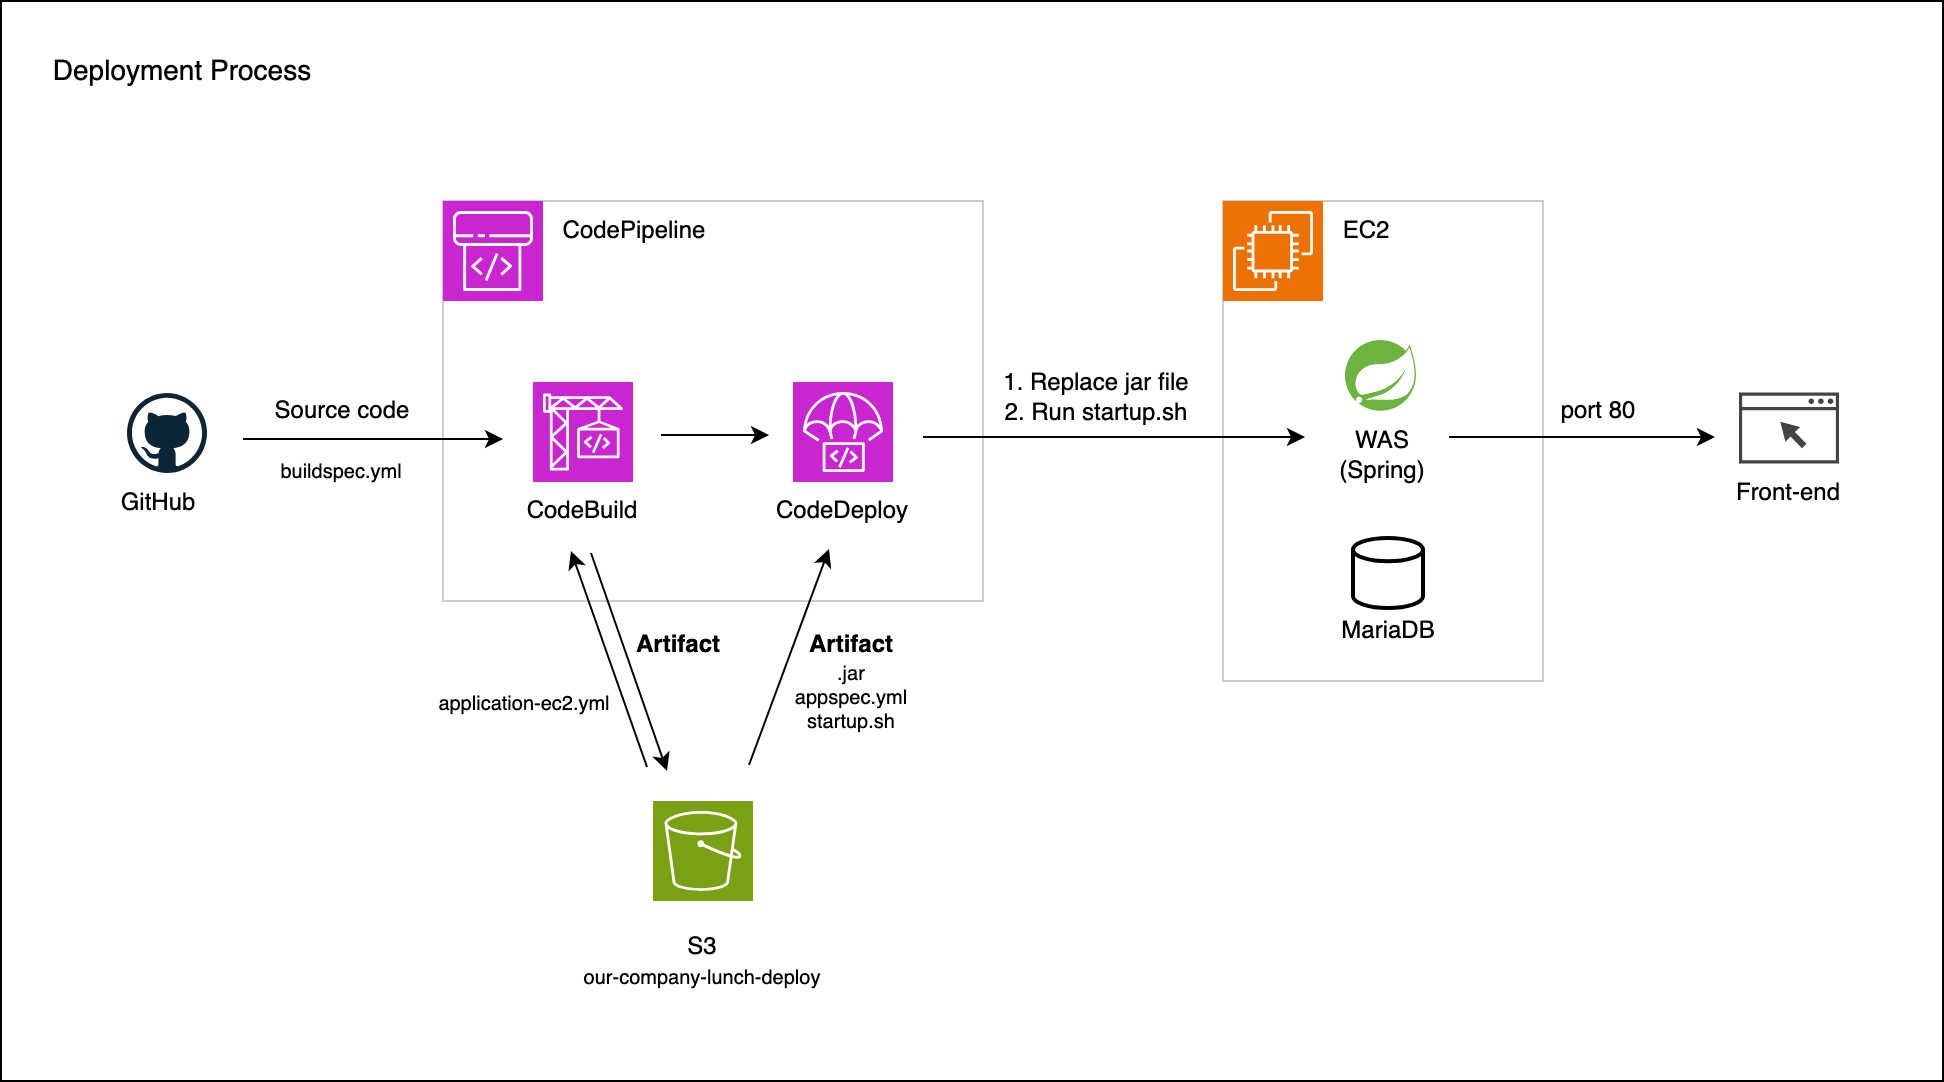
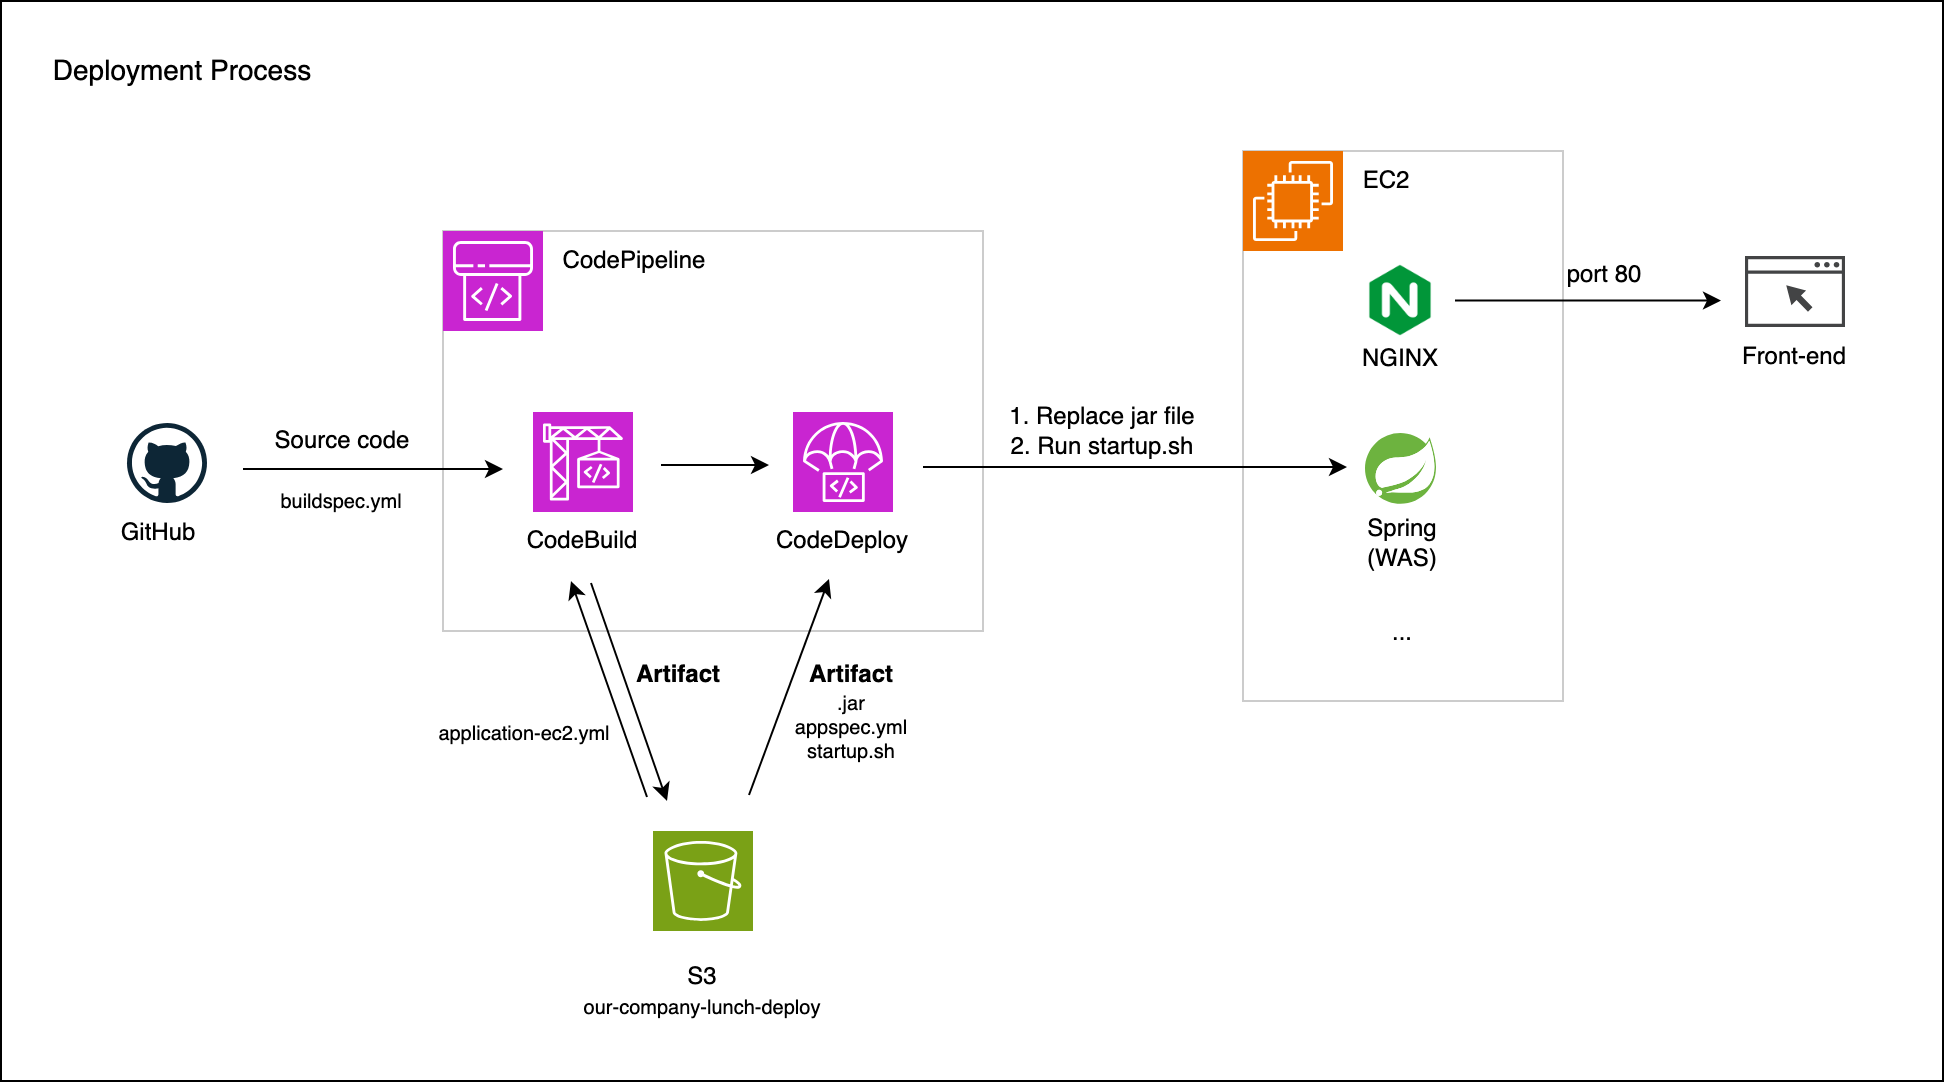
docs: Add system configuration

diff --git a/README.md b/README.md
@@ -1,13 +1,13 @@
 # 프로젝트 설명
 
-## 직장인 점심 기록 서비스 백엔드
+## 우리 회사 점심 - 직장인 점심 기록 서비스 백엔드
 
 - 회사 이메일로 서비스를 가입하고, 직접 주변에 있는 식당을 등록합니다.
 - 자신이 먹은 점심과 식당에 대한 코멘트를 기록하고, 사내에서 공유합니다.
 
 ## 서비스 기대효과
 
-- 자신이 먹었던 점심 코멘트들을 확인하여, 다음번 점심을 선택할 때 참고합니다.
+- 자신의 코멘트와 다른 동료들의 코멘트들을 확인하고, 다음 점심을 선택할 때 참고합니다.
 - 사내 아는 사람들에 의한 코멘트이므로 포털 리뷰보다 믿을 수 있습니다.
 
 # 프로젝트 기능
@@ -84,10 +84,10 @@
   - 댓글은 모든 코멘트에 대해 작성 가능하다.
   - 수정 및 제거는 자신이 작성한 댓글만 가능하다.
 
-- 식당 구독 및 알림
-  - 회원은 식당을 구독하거나 구독 취소할 수 있다.
-  - 구독한 식당에 코멘트가 달리면, 회원은 알림을 받는다.
-  - 회원은 알림을 받기 위해 SSE 연결을 맺을 수 있고, FCM(Firebase Cloud Messaging) 토큰을 등록할 수 있다.  
+- 식당 구독 및 알림 기능
+  - 사용자는 식당을 구독하거나 구독 취소할 수 있다.
+  - 구독한 식당에 코멘트가 달리면, 사용자는 알림을 받는다.
+  - 사용자는 알림을 받기 위해 SSE 연결을 맺을 수 있고, FCM(Firebase Cloud Messaging) 토큰을 등록할 수 있다.  
 
 # ERD
 
@@ -124,6 +124,10 @@
 - RabbitMQ
 
 - Firebase Cloud Messaging
+
+# 시스템 구성도
+
+![System Configuration](doc/img/system-configuration.png)
 
 # 개발 환경 설정
 
